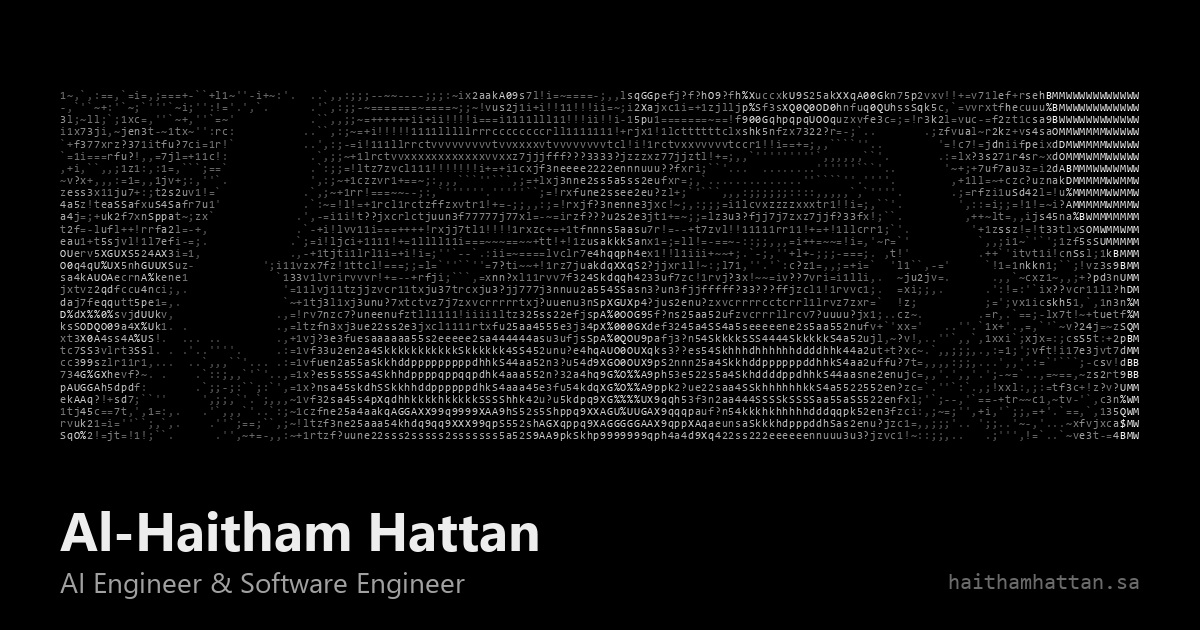
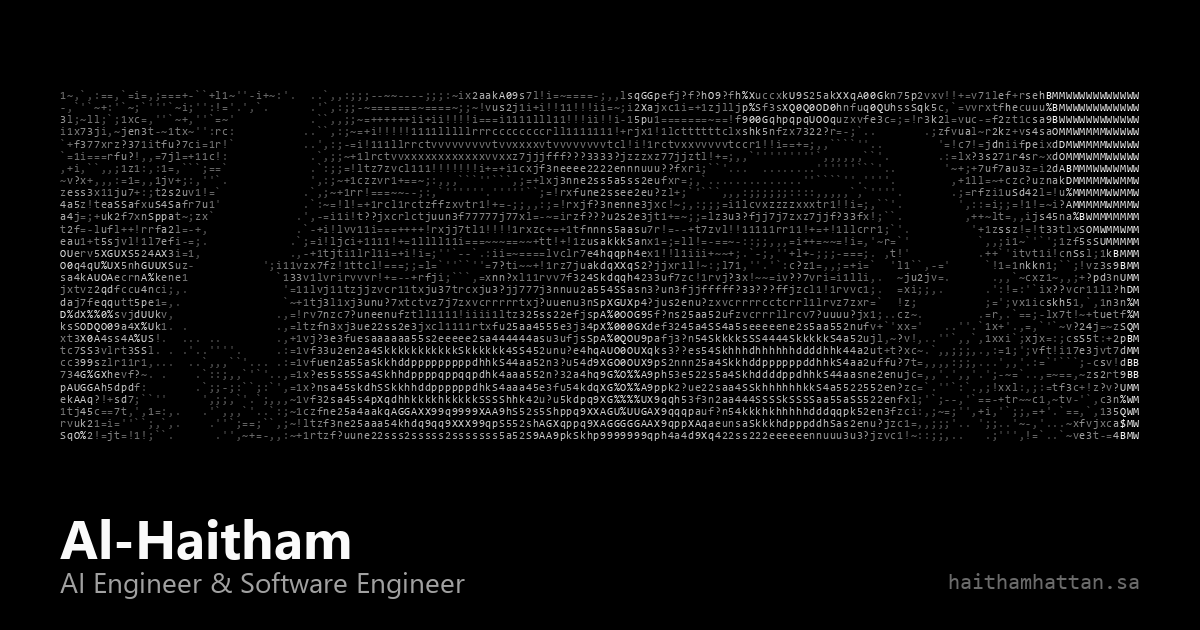
Preview image and README show Al-Haitham; Sherlock bubble hides while he is off screen

Changed region(s): [[0.0308, 0.8143, 0.4625, 0.9048]]

diff --git a/index.html b/index.html
@@ -69,7 +69,7 @@
     </script>
 
     <link rel="stylesheet" href="fonts/fonts.css" />
-    <link rel="stylesheet" href="css/site.css?v=74" />
+    <link rel="stylesheet" href="css/site.css?v=75" />
 </head>
 
 <body>
@@ -230,17 +230,17 @@
     </div>
     <div class="lightbox" id="lightbox" hidden><figure><img alt="" /><figcaption></figcaption></figure></div>
 
-    <script src="js/content.js?v=74"></script>
-    <script src="js/eyes-data.js?v=74"></script>
-    <script src="js/ascii.js?v=74"></script>
-    <script src="js/fx.js?v=74"></script>
-    <script src="js/space-icons.js?v=74"></script>
-    <script src="js/glyph.js?v=74"></script>
-    <script src="js/sherlock.js?v=74"></script>
-    <script src="js/flag.js?v=74"></script>
-    <script src="js/app.js?v=74"></script>
-    <script src="js/hold.js?v=74"></script>
-    <script src="js/term.js?v=74"></script>
+    <script src="js/content.js?v=75"></script>
+    <script src="js/eyes-data.js?v=75"></script>
+    <script src="js/ascii.js?v=75"></script>
+    <script src="js/fx.js?v=75"></script>
+    <script src="js/space-icons.js?v=75"></script>
+    <script src="js/glyph.js?v=75"></script>
+    <script src="js/sherlock.js?v=75"></script>
+    <script src="js/flag.js?v=75"></script>
+    <script src="js/app.js?v=75"></script>
+    <script src="js/hold.js?v=75"></script>
+    <script src="js/term.js?v=75"></script>
 </body>
 
 </html>

diff --git a/js/sherlock.js b/js/sherlock.js
@@ -41,7 +41,7 @@
   var bubble = layer.querySelector('.sh-bubble'), btext = bubble.querySelector('.sh-t'), hit = layer.querySelector('.sh-hit');
 
   // sprite sheet: 8 x 9 frames of 96 x 104
-  var sheet = new Image(); sheet.src = 'img/sherlock.webp?v=74';
+  var sheet = new Image(); sheet.src = 'img/sherlock.webp?v=75';
   var FW = 96, FHH = 104;
   var AN = {
     idle: { r: 0, n: 6, fps: 5 }, runR: { r: 1, n: 8, fps: 9 }, runL: { r: 2, n: 8, fps: 9 }, wave: { r: 3, n: 4, fps: 7 },
@@ -390,11 +390,11 @@
       if (now > typed.until) { bubble.classList.remove('on'); typed.full = ''; }
     }
     var hw = 66 * u, hh = FH * 0.94;
-    hit.style.display = '';
+    hit.style.display = ''; bubble.style.visibility = '';
     hit.style.transform = 'translate(' + (S.x - hw / 2).toFixed(0) + 'px,' + (fy - hh).toFixed(0) + 'px)';
     hit.style.width = hw + 'px'; hit.style.height = hh.toFixed(0) + 'px';
   }
-  function hideUI() { hit.style.display = 'none'; }
+  function hideUI() { hit.style.display = 'none'; bubble.style.visibility = 'hidden'; }
 
   // ---------- input ----------
   window.addEventListener('pointermove', function (e) {

diff --git a/README.md b/README.md
@@ -1,6 +1,6 @@
 # haitham.sys — haithamhattan.sa
 
-Personal site of **Haitham Hattan** — AI Engineer & Full-Stack Software Engineer.
+Personal site of **Al-Haitham** — AI Engineer & Full-Stack Software Engineer.
 
 One column, pure black by default (light theme optional), Arabic · English · 中文.
 Hand-built, no frameworks, no build step — served as-is by GitHub Pages.
